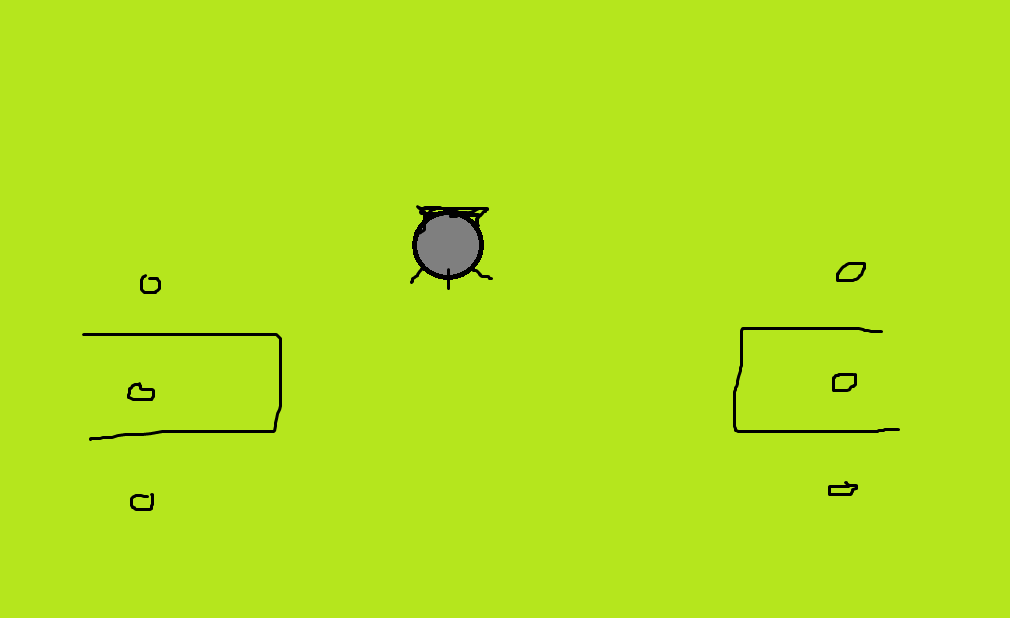
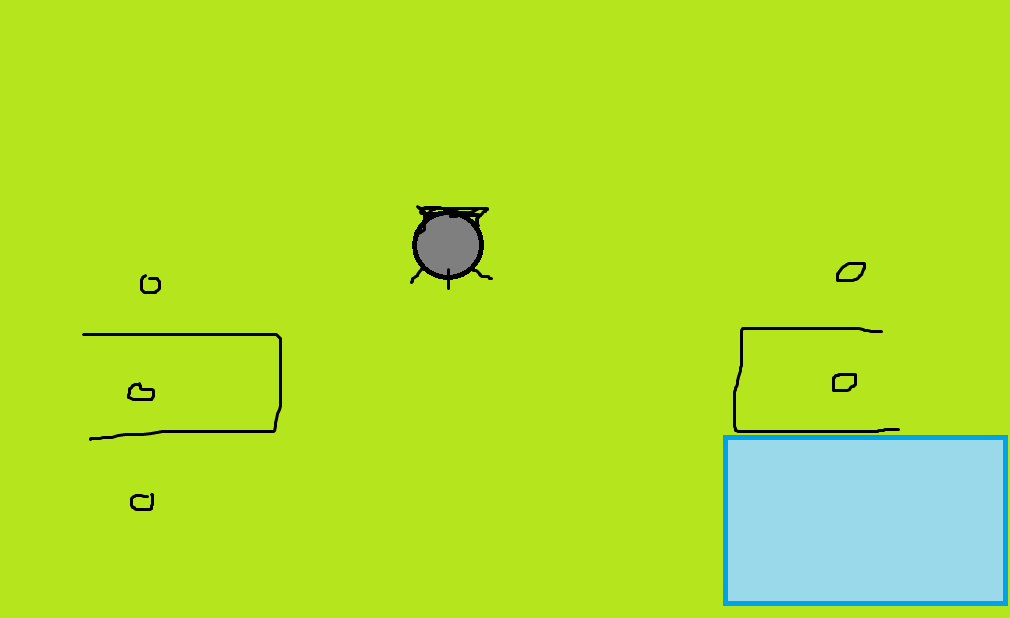
Glace qui bouge et scores fixes

Changed region(s): [[0.7059, 0.6764, 1.0, 0.9838]]

diff --git a/Assets/Scripts/Movement.cs b/Assets/Scripts/Movement.cs
@@ -15,13 +15,29 @@ public class Movement : MonoBehaviour {
 	private Vector3 mouvement;
 	Component spriteOriginal;
 	public Sprite Avecunobjet;
+	public bool glace;
+	private int vitesseDeGlisse;
 
 
 	// Use this for initialization
 	void Start () {
 		spriteOriginal = GetComponent<SpriteRenderer>();
+		glace = false;
 	}
-	
+
+	void OnTriggerEnter2D(Collider2D collider){
+		if (collider.GetComponent<Glissement>() == null) {
+			// Rien
+		} else {
+			glace = true;
+			vitesseDeGlisse = collider.GetComponent<Glissement>().coefficient;
+		}
+	}
+
+	void OnTriggerExit2D(Collider2D collider){
+		glace = false;
+	}
+
 	// Update is called once per frame
 	void FixedUpdate () {
 		mouvement = new Vector3 (0, 0, 0);
@@ -42,12 +58,17 @@ public class Movement : MonoBehaviour {
 			mouvement += new Vector3 (-currentSpeed, 0, 0);
 		}
 
-		if (Input.GetKeyDown (codePositif)) {
-			Debug.Log("Interaction positive");
-			GetComponent<SpriteRenderer>().sprite = Avecunobjet;
+
+		if (glace) {
+			// Ajoute l'inertie sur la glace
+			GetComponent<Rigidbody2D> ().AddForce (mouvement * Time.deltaTime * vitesseDeGlisse);
+		} else {
+			GetComponent<Rigidbody2D> ().velocity = new Vector3 (0, 0, 0);
 		}
 
+		//Bouge le joueur pour la frame
 		transform.Translate (mouvement * Time.deltaTime);
+
 
 	}
 }

diff --git a/Assets/Scripts/Glissement.cs b/Assets/Scripts/Glissement.cs
@@ -1,0 +1,17 @@
+using UnityEngine;
+using System.Collections;
+
+public class Glissement : MonoBehaviour {
+
+	public int coefficient = 100;
+
+	// Use this for initialization
+	void Start () {
+	
+	}
+	
+	// Update is called once per frame
+	void Update () {
+	
+	}
+}
